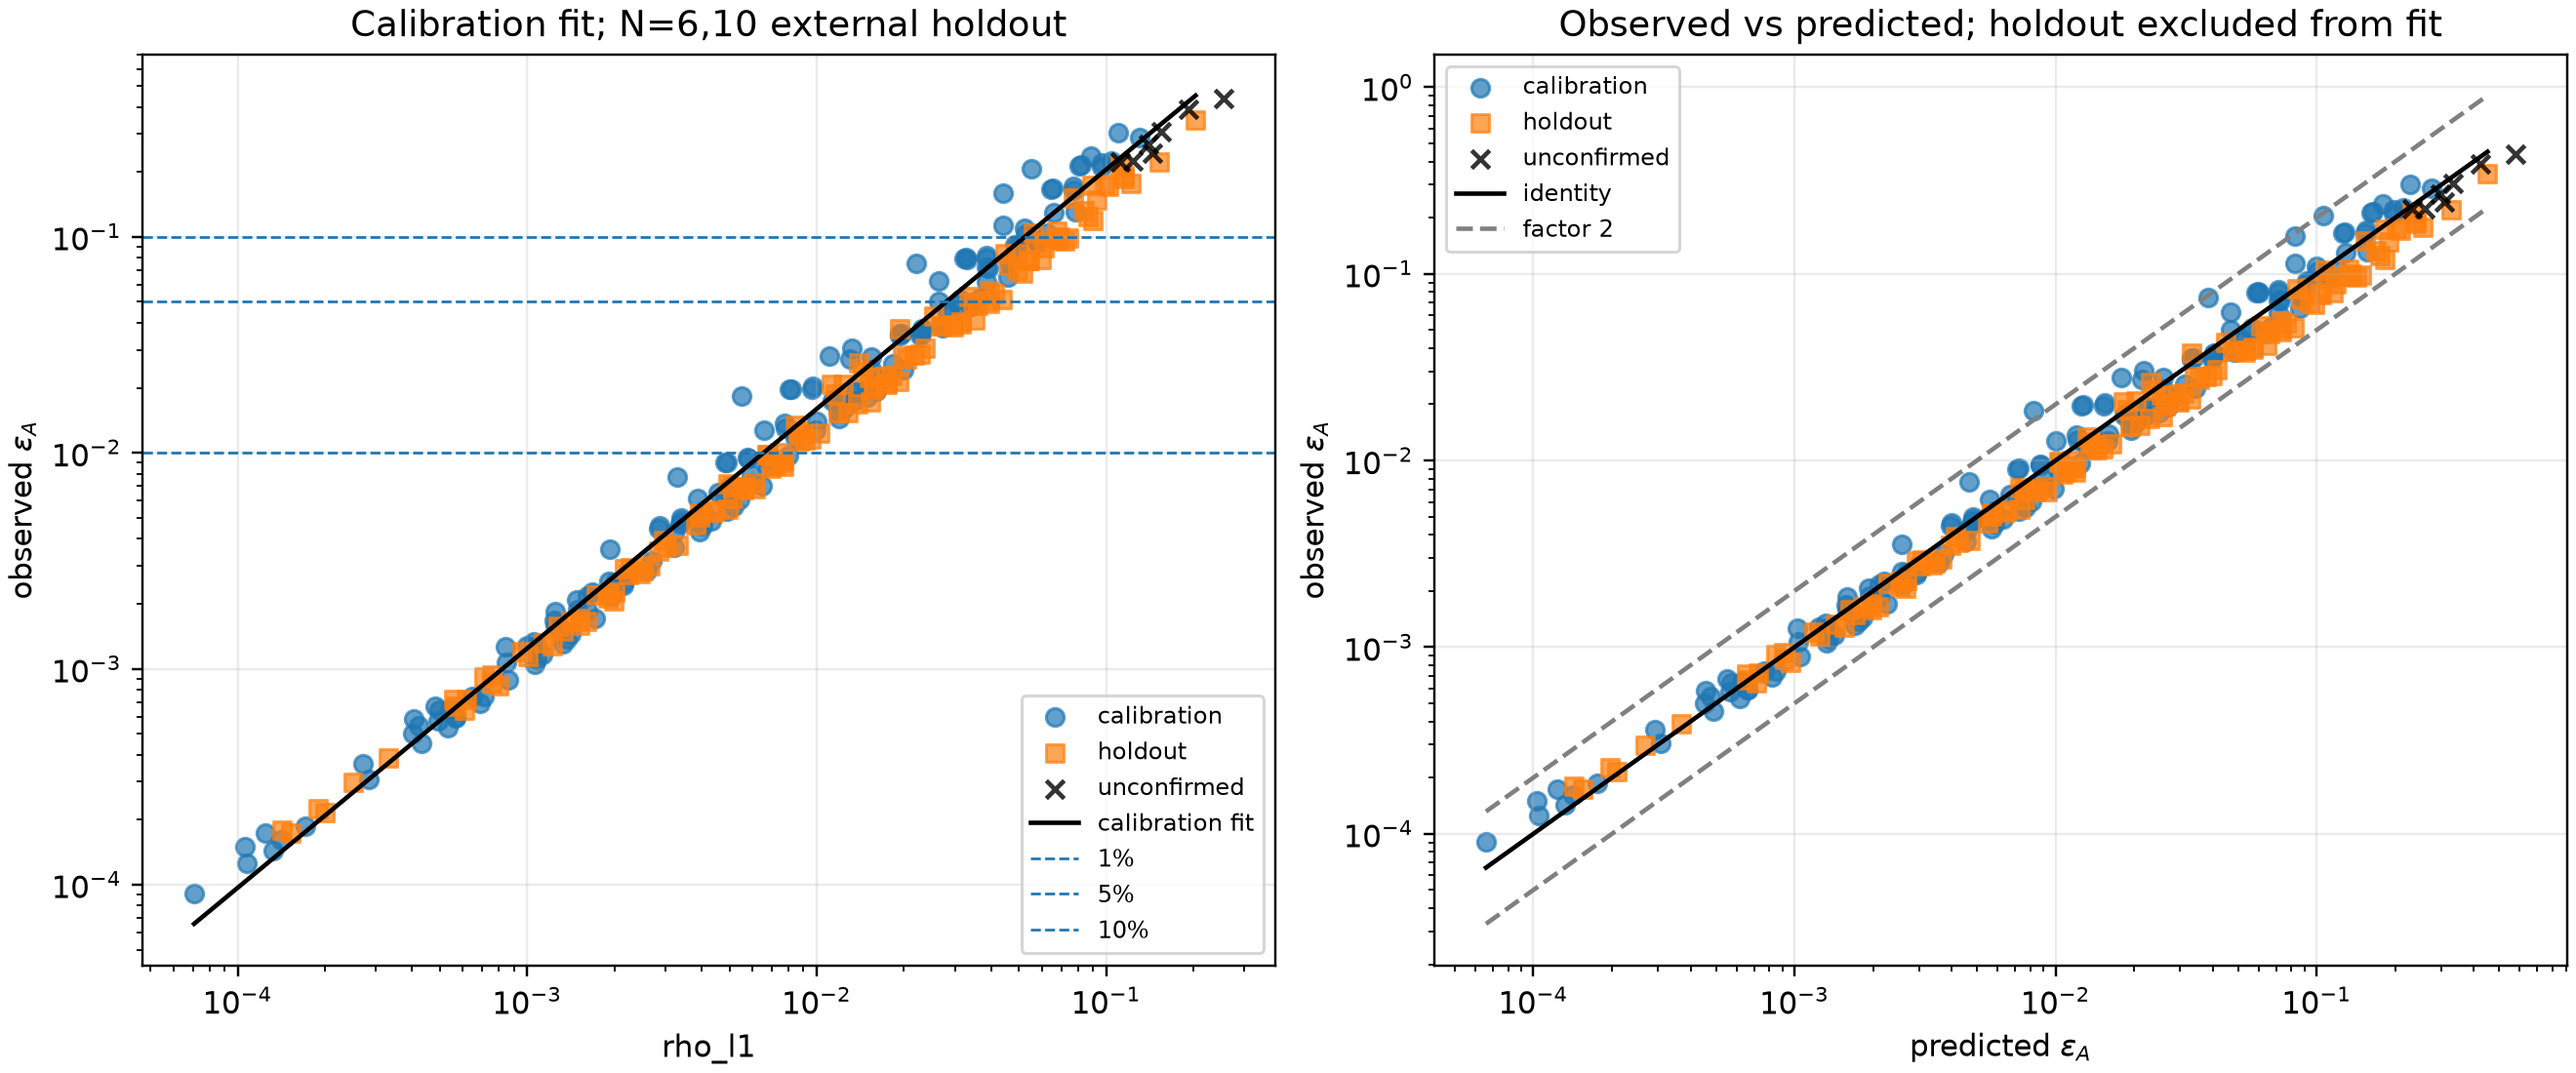
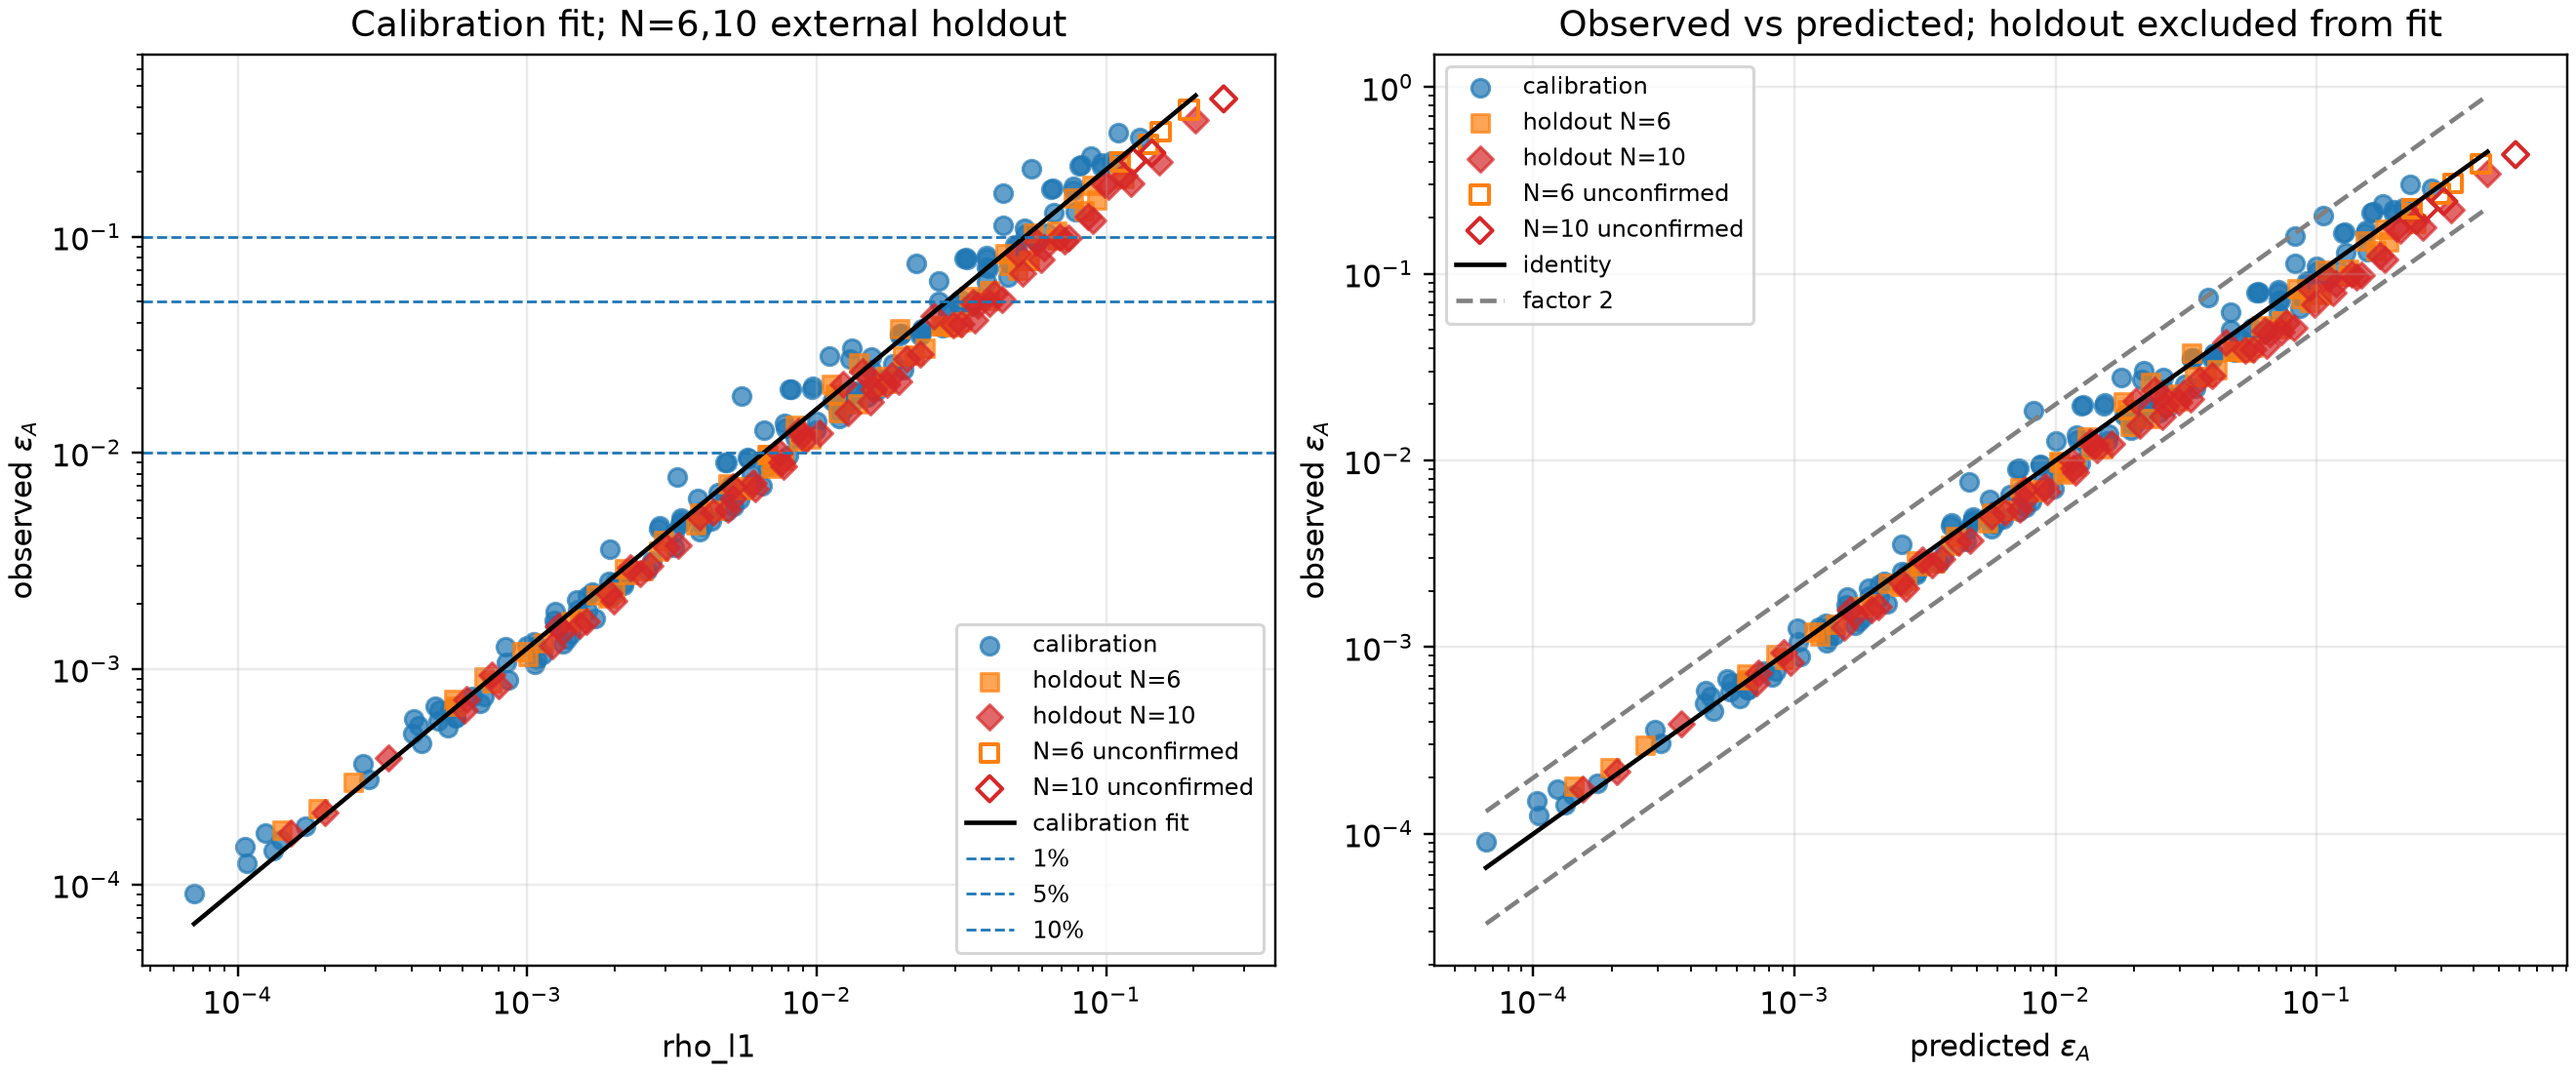
fix: close T08 audit gaps

diff --git a/tests/test_t08_analysis.py b/tests/test_t08_analysis.py
@@ -1,4 +1,4 @@
-"""Leakage, threshold, raw-data, and T07 regression tests for T08."""
+"""Leakage, eligibility, artifact, and T07 regression tests for T08."""
 
 import csv
 from pathlib import Path
@@ -6,28 +6,67 @@ from pathlib import Path
 import numpy as np
 import pytest
 
-from acoustic_ms.transferability import conservative_threshold, select_predictor_by_group_cv
+from acoustic_ms.transferability import (
+    conservative_threshold,
+    select_predictor_by_group_cv,
+)
+from scripts.analyze_t08_transferability import _eligible_a, _eligible_b
 
 
 ROOT = Path(__file__).resolve().parents[1]
 
 
 def _row(n, family, eta, epsilon):
-    return {"particle_count": n, "family": family, "eta": eta, "lambda_max": 1.1 * eta, "rho_l1": 0.9 * eta, "epsilon_a": epsilon}
+    return {
+        "particle_count": n,
+        "family": family,
+        "eta": eta,
+        "lambda_max": 1.1 * eta,
+        "rho_l1": 0.9 * eta,
+        "epsilon_a": epsilon,
+    }
+
+
+def _eligibility_row(n, total="true", joint="true", resolved="true"):
+    return {
+        "split": "calibration",
+        "particle_count": str(n),
+        "total_converged": total,
+        "joint_converged": joint,
+        "collective_residual_resolved": resolved,
+        "metric_applicable": "true",
+        "epsilon_a": "0.02",
+        "epsilon_b": "0.01",
+    }
 
 
 def test_selection_and_threshold_reject_holdout_leakage():
-    calibration = [_row(n, family, 0.01 * index, 0.02 * index) for index, (n, family) in enumerate(
-        [(2, "pair"), (3, "linear"), (3, "compact"), (3, "irregular"), (4, "linear"), (4, "compact"), (4, "irregular")], 1
-    ) for _ in (0, 1)]
+    groups = [
+        (2, "pair"),
+        (3, "linear"),
+        (3, "compact"),
+        (3, "irregular"),
+        (4, "linear"),
+        (4, "compact"),
+        (4, "irregular"),
+    ]
+    calibration = [
+        _row(n, family, 0.01 * index, 0.02 * index)
+        for index, (n, family) in enumerate(groups, 1)
+        for _ in (0, 1)
+    ]
     selected, scores = select_predictor_by_group_cv(calibration)
-    assert selected in scores and set(scores) == {"eta", "lambda_max", "rho_l1"}
-    threshold, available, count = conservative_threshold(calibration, selected, 0.2, 8)
+    assert selected in scores
+    assert set(scores) == {"eta", "lambda_max", "rho_l1"}
+    threshold, available, count = conservative_threshold(
+        calibration, selected, 0.2, 8
+    )
     assert available and count >= 8 and threshold > 0
     contaminated = calibration + [_row(6, "linear", 0.001, 0.9)]
-    with pytest.raises(ValueError): select_predictor_by_group_cv(contaminated)
-    with pytest.raises(ValueError): conservative_threshold(contaminated, selected, 0.2)
-
+    with pytest.raises(ValueError):
+        select_predictor_by_group_cv(contaminated)
+    with pytest.raises(ValueError):
+        conservative_threshold(contaminated, selected, 0.2)
 
 
 def test_threshold_never_splits_equal_predictor_values():
@@ -40,29 +79,88 @@ def test_threshold_never_splits_equal_predictor_values():
     assert threshold == 0.0
     assert not available
     assert count == 0
+
+
+def test_nonconverged_cases_are_excluded_from_analysis():
+    converged = _eligibility_row(3)
+    nonconverged = _eligibility_row(4, total="false", joint="false")
+    assert _eligible_a([converged, nonconverged], "calibration") == [converged]
+    assert _eligible_b([converged, nonconverged], "calibration") == [converged]
+
+
+def test_dimers_are_excluded_from_epsilon_b_fit():
+    dimer = _eligibility_row(2)
+    trimer = _eligibility_row(3)
+    assert _eligible_b([dimer, trimer], "calibration") == [trimer]
+
+
+def test_all_five_t08_csvs_are_free_of_nan_and_inf():
+    names = (
+        "t08_cases.csv",
+        "t08_forces.csv",
+        "t08_convergence.csv",
+        "t08_predictor_fits.csv",
+        "t08_validity_thresholds.csv",
+    )
+    for name in names:
+        rows = csv.DictReader(
+            (ROOT / "results/data" / name).read_text().splitlines()
+        )
+        for row in rows:
+            for value in row.values():
+                assert value.lower() not in {"nan", "inf", "+inf", "-inf"}
+                if not value:
+                    continue
+                try:
+                    numeric = float(value)
+                except ValueError:
+                    continue
+                assert np.isfinite(numeric)
+
+
 def test_raw_artifact_counts_finiteness_and_split():
-    cases = list(csv.DictReader((ROOT / "results/data/t08_cases.csv").read_text().splitlines()))
-    assert len(cases) == 312 and len({row["case_id"] for row in cases}) == 312
+    cases = list(csv.DictReader(
+        (ROOT / "results/data/t08_cases.csv").read_text().splitlines()
+    ))
+    assert len(cases) == 312
+    assert len({row["case_id"] for row in cases}) == 312
     assert sum(row["split"] == "calibration" for row in cases) == 168
     assert sum(row["split"] == "holdout" for row in cases) == 144
-    numeric = ["eta", "lambda_max", "rho_l1", "epsilon_a", "epsilon_b", "maximum_physical_residual"]
+    numeric = [
+        "eta", "lambda_max", "rho_l1", "epsilon_a", "epsilon_b",
+        "maximum_physical_residual",
+    ]
     assert all(np.isfinite(float(row[field])) for row in cases for field in numeric)
     assert max(float(row["maximum_physical_residual"]) for row in cases) < 1e-11
 
 
 def test_t07_canonical_force_regression():
-    old = list(csv.DictReader((ROOT / "results/data/t07_cluster_convergence.csv").read_text().splitlines()))
-    new = list(csv.DictReader((ROOT / "results/data/t08_convergence.csv").read_text().splitlines()))
+    old = list(csv.DictReader(
+        (ROOT / "results/data/t07_cluster_convergence.csv").read_text().splitlines()
+    ))
+    new = list(csv.DictReader(
+        (ROOT / "results/data/t08_convergence.csv").read_text().splitlines()
+    ))
     mapping = {
-        "trimer_linear": (3, "linear"), "trimer_equilateral": (3, "compact"),
-        "trimer_scalene": (3, "irregular"), "quartet_linear": (4, "linear"),
-        "quartet_square": (4, "compact"), "quartet_irregular": (4, "irregular"),
+        "trimer_linear": (3, "linear"),
+        "trimer_equilateral": (3, "compact"),
+        "trimer_scalene": (3, "irregular"),
+        "quartet_linear": (4, "linear"),
+        "quartet_square": (4, "compact"),
+        "quartet_irregular": (4, "irregular"),
     }
     for geometry, (n, family) in mapping.items():
         expected = [row for row in old if row["geometry"] == geometry]
         prefix = f"n{n}_{family}_f0.8_d2.1"
-        observed = {int(row["lmax"]): row for row in new if row["case_id"] == prefix}
+        observed = {
+            int(row["lmax"]): row for row in new if row["case_id"] == prefix
+        }
         for row in expected:
             lmax = int(row["lmax"])
             if lmax in observed:
-                np.testing.assert_allclose(float(observed[lmax]["rms_d"]), float(row["total_force_rms"]), rtol=3e-12, atol=3e-13)
+                np.testing.assert_allclose(
+                    float(observed[lmax]["rms_d"]),
+                    float(row["total_force_rms"]),
+                    rtol=3e-12,
+                    atol=3e-13,
+                )

diff --git a/scripts/analyze_t08_transferability.py b/scripts/analyze_t08_transferability.py
@@ -188,29 +188,48 @@ def _plot_predictors(rows, fits):
 def _plot_transferability(rows, selected, fit):
     eligible = [row for row in rows if _true(row, "total_converged") and float(row["epsilon_a"]) > 0]
     fig, axes = plt.subplots(1, 2, figsize=(12, 5), constrained_layout=True)
-    for split, marker, color in (("calibration", "o", "tab:blue"), ("holdout", "s", "tab:orange")):
-        subset = [row for row in eligible if row["split"] == split]
-        x = np.array([float(row[selected]) for row in subset]); y = np.array([float(row["epsilon_a"]) for row in subset])
+    series = (
+        ("calibration", None, "o", "tab:blue"),
+        ("holdout N=6", 6, "s", "tab:orange"),
+        ("holdout N=10", 10, "D", "tab:red"),
+    )
+    for label, particle_count, marker, color in series:
+        subset = [
+            row for row in eligible
+            if (
+                (particle_count is None and row["split"] == "calibration")
+                or (
+                    row["split"] == "holdout"
+                    and int(row["particle_count"]) == particle_count
+                )
+            )
+        ]
+        x = np.array([float(row[selected]) for row in subset])
+        y = np.array([float(row["epsilon_a"]) for row in subset])
         predicted = float(fit["prefactor"]) * x ** float(fit["exponent"])
-        axes[0].scatter(x, y, marker=marker, color=color, alpha=0.7, label=split)
-        axes[1].scatter(predicted, y, marker=marker, color=color, alpha=0.7, label=split)
-    unconfirmed = [
-        row for row in rows
-        if not _true(row, "total_converged") and float(row["epsilon_a"]) > 0
-    ]
-    if unconfirmed:
-        unconfirmed_x = np.array([float(row[selected]) for row in unconfirmed])
-        unconfirmed_y = np.array([float(row["epsilon_a"]) for row in unconfirmed])
-        unconfirmed_predicted = (
-            float(fit["prefactor"]) * unconfirmed_x ** float(fit["exponent"])
-        )
+        axes[0].scatter(x, y, marker=marker, color=color, alpha=0.7, label=label)
+        axes[1].scatter(predicted, y, marker=marker, color=color, alpha=0.7, label=label)
+    for particle_count, marker, color in ((6, "s", "tab:orange"), (10, "D", "tab:red")):
+        unconfirmed = [
+            row for row in rows
+            if (
+                not _true(row, "total_converged")
+                and int(row["particle_count"]) == particle_count
+                and float(row["epsilon_a"]) > 0
+            )
+        ]
+        if not unconfirmed:
+            continue
+        x = np.array([float(row[selected]) for row in unconfirmed])
+        y = np.array([float(row["epsilon_a"]) for row in unconfirmed])
+        predicted = float(fit["prefactor"]) * x ** float(fit["exponent"])
         axes[0].scatter(
-            unconfirmed_x, unconfirmed_y, marker="x", color="black",
-            alpha=0.8, label="unconfirmed",
+            x, y, marker=marker, facecolors="none", edgecolors=color,
+            linewidths=1.3, label=f"N={particle_count} unconfirmed",
         )
         axes[1].scatter(
-            unconfirmed_predicted, unconfirmed_y, marker="x", color="black",
-            alpha=0.8, label="unconfirmed",
+            predicted, y, marker=marker, facecolors="none", edgecolors=color,
+            linewidths=1.3, label=f"N={particle_count} unconfirmed",
         )
     xline = np.logspace(np.log10(min(float(row[selected]) for row in eligible)), np.log10(max(float(row[selected]) for row in eligible)), 200)
     axes[0].plot(xline, float(fit["prefactor"]) * xline ** float(fit["exponent"]), color="black", label="calibration fit")

diff --git a/tests/test_t08_cluster_families.py b/tests/test_t08_cluster_families.py
@@ -41,6 +41,24 @@ def test_exact_configuration_count_and_order():
     assert sum(item.split == "holdout" for item in configurations) == 144
 
 
+def test_configuration_order_is_explicit_and_deterministic():
+    geometries = [(2, "pair")]
+    geometries.extend(
+        (n, family)
+        for n in (3, 4, 6, 10)
+        for family in ("linear", "compact", "irregular")
+    )
+    expected = [
+        f"n{n}_{family}_f{f1:.1f}_d{distance:.1f}"
+        for n, family in geometries
+        for f1 in (0.1, 0.4, 0.8, 1.0)
+        for distance in (2.1, 2.5, 3.0, 4.0, 6.0, 10.0)
+    ]
+    first = [item.case_id for item in enumerate_transferability_configurations()]
+    second = [item.case_id for item in enumerate_transferability_configurations()]
+    assert first == expected == second
+
+
 @pytest.mark.parametrize("builder", [linear_cluster, compact_cluster, irregular_cluster])
 def test_geometry_distance_validation(builder):
     for distance in (0, -1, np.nan, np.inf):

diff --git a/docs/HANDOFF.md b/docs/HANDOFF.md
@@ -493,7 +493,8 @@ Y_{\mathrm{mp}}=\frac{F_{\mathrm{RMS}}(\mathbf F^D-\mathbf F^{D_1})}
 Every case was evaluated at \(L=1,3,5,7,9,11\), stopping early only after
 both latest normalized differences satisfied \(10^{-3}\); \(L=13\) was
 available only for \(N\leq4\). Total, matched-pairwise, and collective
-residual convergence were assessed separately. No case required \(L=13\).
+residual convergence were assessed separately. Eleven calibration cases
+required \(L=13\): 2 dimers, 5 trimers, and 4 quartets.
 The final status by particle count and family is:
 
 | \(N\) | family | cases | total confirmed | joint confirmed | residual resolved |
@@ -614,7 +615,7 @@ Official T08 SHA-256 hashes:
 707024d14c79b4ee6aebc5e20ae0037b33fd65790a082b9b561e60dee30776a1  results/data/t08_predictor_fits.csv
 27ad27a0b5b2a7bc4521118d4b4e32c04e77a6ec19085141e56c9ac0e3114f2c  results/data/t08_validity_thresholds.csv
 f67c0c41f0c590af6127a50f9041da5f22b082049ac568cc1d74d3f260269578  results/figures/t08_predictor_comparison.png
-60992fc1135a44b2698ad4cf90004fde730bfd8e241ed82b4355342643344efa  results/figures/t08_transferability.png
+078d6543fa819033e01389d2c76bb81c4d8a0e2bdf34b4838dc25748bb48723e  results/figures/t08_transferability.png
 ```
 
 The full pre-T08 results manifest was compared after generation. Every one of
@@ -653,7 +654,7 @@ clipping or physical `NaN`/`inf` values.
 
 ### Commands and final limitations
 
-Final verification reports 189/189 tests passing, including warnings promoted
+Final verification reports 193/193 tests passing, including warnings promoted
 to errors.
 
 The workflow used editable installation; baseline and final `pytest -q` and
